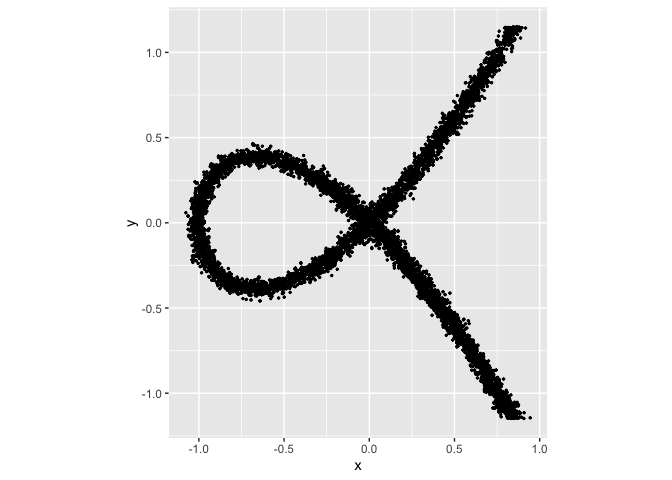
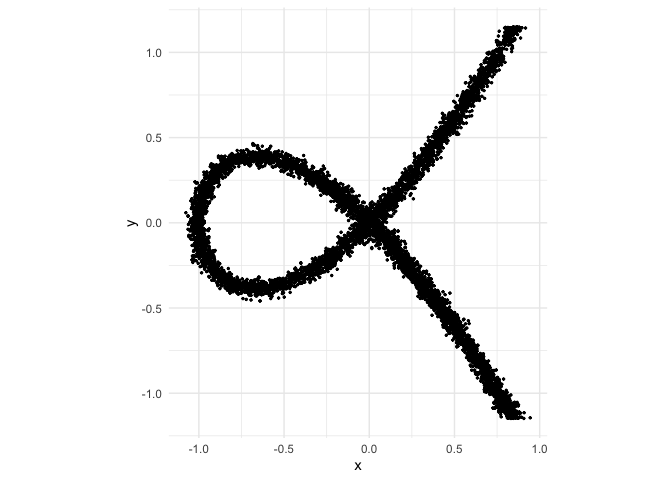
readme updates

diff --git a/README.md b/README.md
@@ -382,6 +382,12 @@ Even better, **algstat** can team up with
 solve systems of polynomial equations using `poly_solve()`:
 
 ``` r
+library("ggplot2"); theme_set(theme_minimal())
+# 
+# Attaching package: 'ggplot2'
+# The following object is masked from 'package:mpoly':
+# 
+#     vars
 ggvariety(mp("(y - x^2) (y - (2 - x^2))"), xlim = c(-2,2), ylim = c(0,2), n = 351)
 ```
 
@@ -415,12 +421,6 @@ p <- mp("y^2 - (x^3 + x^2)")
 # 10 0.853 1.08  -0.178    4.45 -0.0401  -2.58      1  1010
 # # … with 7,990 more rows
 
-library("ggplot2")
-# 
-# Attaching package: 'ggplot2'
-# The following object is masked from 'package:mpoly':
-# 
-#     vars
 ggplot(samps, aes(x, y)) + geom_point(size = .5) + coord_equal()
 ```
 
